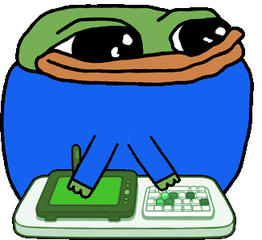
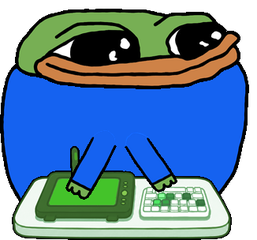
update v1786744566

diff --git a/mascot.py b/mascot.py
@@ -4690,7 +4690,11 @@ class Mascot:
             if name in self._pil_cache:
                 x, y = self._pos(name)
                 comp.alpha_composite(self._pil_cache[name], (round(x) + P, round(y) + P))
-        arms = ["arm_key", "arm_right_typing" if typing else "arm_right"]
+        # typing_arm 을 끈 캐릭터는 타자 중에도 평소 팔을 쓴다 (프고).
+        arms = ["arm_key",
+                "arm_right_typing"
+                if (typing and self.cfg.get("typing_arm", True))
+                else "arm_right"]
         for name in arms:
             try:
                 im = self._load_pil(name)
@@ -11417,7 +11421,8 @@ class Mascot:
                                                   and "pen" not in f))
                 self._draw_left(now, f)
                 return
-        if pen_typing and "pen" not in f and "arm_right_typing" in self.hop:
+        if (pen_typing and "pen" not in f and "arm_right_typing" in self.hop
+                and self.cfg.get("typing_arm", True)):
             # 양손 타이핑: 왼손을 먼저(아래), 오른팔-타자를 나중(위) 그림
             self._draw_left(now, f)
             self.pen_ang += (self.pen_ang_t - self.pen_ang) * 0.5
